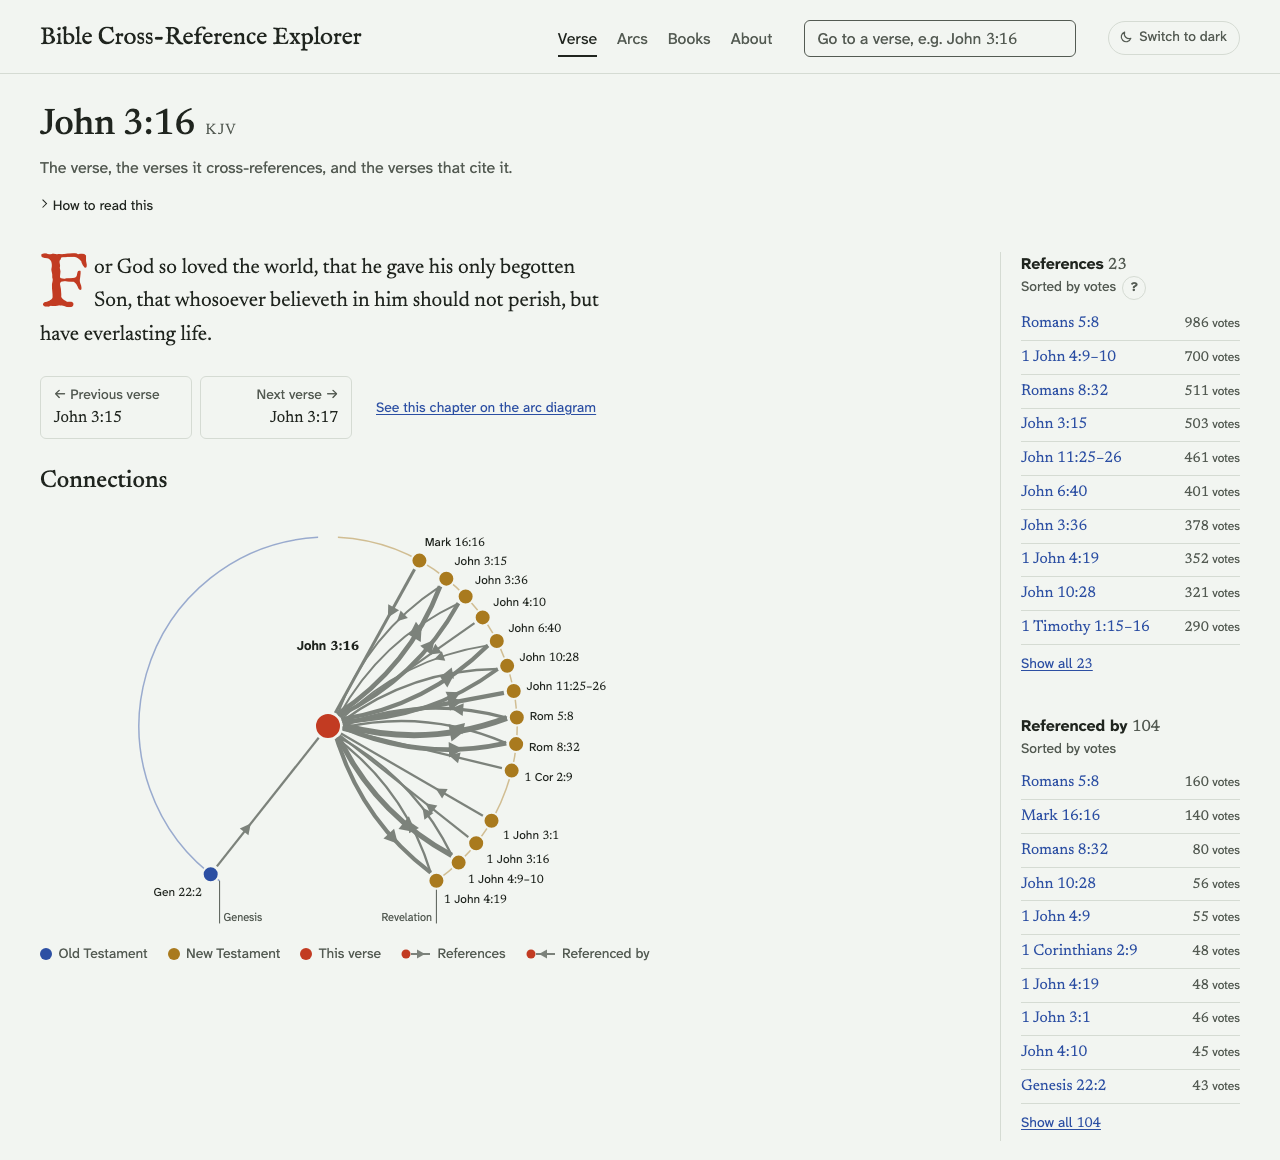
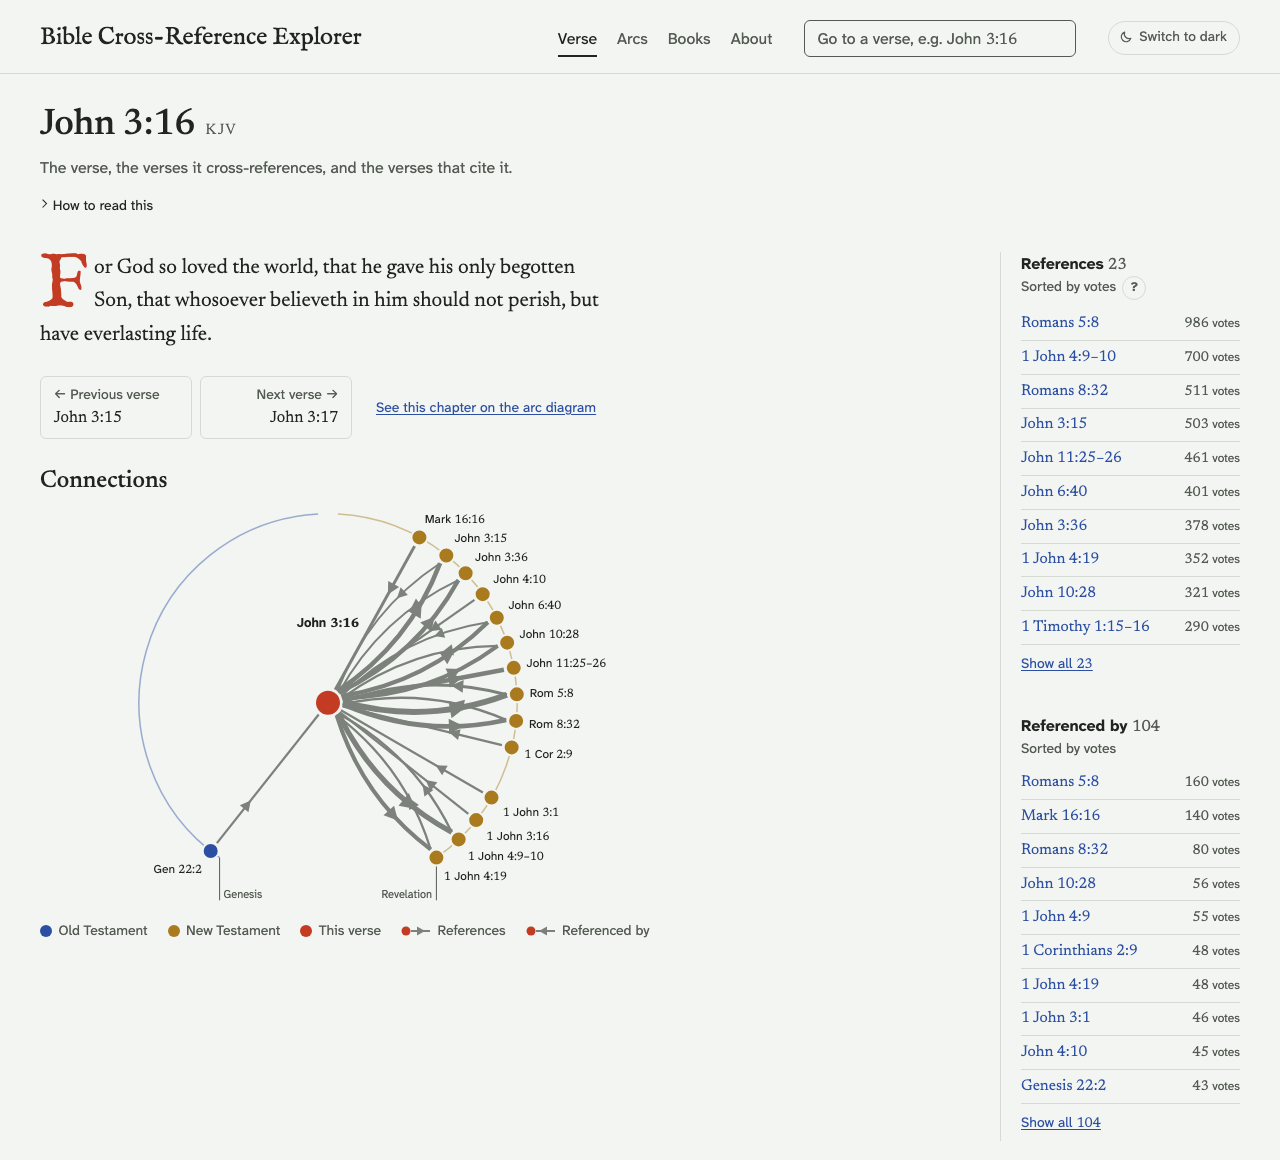
Reserve label room above the verse graph only when a label is there
The layout reserved a label's height above the circle whether or not a
node at the top had one. It now sizes the radius by the drawing's real
height, and the gap under "Connections" matches About's 0.75rem. At
1366x650 John 3:16's circle grows from 130px to 150px and Isa 53:5's to
137px; they stay sticky down to 633px and 637px of window height (was
about 650px).

diff --git a/src/graph-layout.js b/src/graph-layout.js
@@ -222,6 +222,10 @@ function endMarks(g, o) {
   return marks;
 }
 
+// The whole circle, drawn or not (its stroke is under 2px), so a graph is never squashed
+// above or below.
+const circleBox = (g) => ({ top: -g.radius - 1, bottom: g.radius + 1 });
+
 /**
  * nodes: [{ id, labelWidth (0 for no label), bothWays?, r? }] — every linked verse, not the centre.
  * options: width, maxHeight, ntStart, lastId, r (node radius), rCenter, labelGap,
@@ -235,11 +239,11 @@ export function radialLayout(nodes, options) {
   const prepared = nodes.map((n) => ({ ...n, angle0: canonicalAngle(n.id, o.ntStart, o.lastId) }));
   const cl = o.centerLabel;
   const cx = o.width / 2;
-  // Above the circle: a label over a node at the top. Below it: the lowest of the circle and
-  // the end marks (at most two lines under the labels of nodes at the ends).
-  const above = o.r + o.labelGap + o.labelHeight;
+  // A first guess at the height a radius needs: the circle, and below it the end marks (at
+  // most two lines under the labels of nodes at the ends). Labels over nodes at the top
+  // only count once the layout shows there are some (heightOf).
   const belowEnds = o.r + o.labelGap + o.labelHeight + o.pad + 2 * (o.endLabelHeight ?? o.labelHeight);
-  const heightFor = (radius) => o.edgePad + above + radius + Math.max(radius, radius * -Math.cos(SPAN) + belowEnds) + o.edgePad;
+  const heightFor = (radius) => o.edgePad + radius + Math.max(radius, radius * -Math.cos(SPAN) + belowEnds) + o.edgePad;
   // The largest circle the height allows, and the width (with room for the widest label on each side).
   // Never smaller than the circle whose busiest half holds its dots without touching.
   const busiest = Math.max(...[-1, 1].map((side) => prepared.filter((n) => Math.sign(n.angle0) === side).length));
@@ -264,10 +268,19 @@ export function radialLayout(nodes, options) {
     const fits = !placed.some((p) => out(p.dot) || (p.label && out(p.label))) && !endMarks(g, o).some((m) => out(m.box));
     return { g, placed, overlapCount, clashing, fits };
   };
+  // The drawing's real height: whatever it has above and below the circle.
+  const heightOf = ({ g, placed }) => {
+    const boxes = [...placed.flatMap(boxesOf), ...endMarks(g, o).map((m) => m.box), circleBox(g)];
+    return Math.max(...boxes.map((b) => b.bottom)) - Math.min(...boxes.map((b) => b.top)) + 2 * o.edgePad;
+  };
   let result = fitsAt(radius);
-  for (let grow = radius * 1.04; result.fits && grow <= o.maxRadius && heightFor(grow) <= o.maxHeight; grow *= 1.04) {
+  // Shrink until the real height fits (it is about twice the radius, so take half the excess).
+  for (let over; result.g.radius > rMin && (over = heightOf(result) - o.maxHeight) > 0; ) {
+    result = fitsAt(Math.max(rMin, result.g.radius - Math.max(1, over / 2)));
+  }
+  for (let grow = result.g.radius * 1.04; result.fits && grow <= o.maxRadius; grow *= 1.04) {
     const bigger = fitsAt(grow);
-    if (!bigger.fits || bigger.overlapCount > result.overlapCount) break;
+    if (!bigger.fits || bigger.overlapCount > result.overlapCount || heightOf(bigger) > o.maxHeight) break;
     result = bigger;
   }
   while (!result.fits && result.g.radius > rMin) result = fitsAt(Math.max(rMin, result.g.radius * 0.96));
@@ -275,7 +288,7 @@ export function radialLayout(nodes, options) {
   // Shift everything down so the top of the drawing sits at edgePad, then size the height.
   const { g, placed, overlapCount, clashing } = result;
   const ends = endMarks(g, o);
-  const all = [...placed.flatMap(boxesOf), ...ends.map((m) => m.box), { top: -g.radius - (o.labelHeight ? above : o.r), bottom: g.radius }];
+  const all = [...placed.flatMap(boxesOf), ...ends.map((m) => m.box), circleBox(g)];
   const clTop = cl ? centerLabelTop(placed, prepared, g, o) : 0;
   const centerLabel = cl ? { left: g.cx - cl.width / 2, right: g.cx + cl.width / 2, top: clTop, bottom: clTop + cl.height } : null;
   if (centerLabel) all.push(centerLabel);

diff --git a/src/style.css b/src/style.css
@@ -1134,7 +1134,8 @@ main > * {
   font-family: var(--font-text);
   font-weight: 500;
   font-size: var(--step-3);
-  margin: 1.5rem 0 0.25rem;
+  /* 0.75rem to the graph, as under About's headings: the SVG starts with a 6px edge pad. */
+  margin: 1.5rem 0 calc(0.75rem - 6px);
 }
 
 

diff --git a/CLAUDE.md b/CLAUDE.md
@@ -69,7 +69,8 @@ Shared modules. Reuse these in new views instead of re-implementing them.
   canonical order: Genesis lower left, OT up the left, NT down the right, Revelation lower right, each verse kept on
   its testament's half and never shifted or squashed when the links are one-sided; it nudges crowded nodes apart in
   order (balancing pushes, then sweeps for long jams) until no label overlaps, and reports any that still do in
-  `clashing`; labels outside the circle, edges inside; "Genesis" and "Revelation" hang from ticks dropped from the
+  `clashing`; it sizes the radius to `maxHeight` by the drawing's real height, so label room above the circle is only
+  taken when a node at the top has a label; labels outside the circle, edges inside; "Genesis" and "Revelation" hang from ticks dropped from the
   ends, on their own row under the gap, where no verse label reaches) are shared by `verse-graph.js` and the
   thumbnail build.
 - `src/dom.js`: `h(tag, attrs, ...children)`. Children are set as text, never parsed as HTML.
